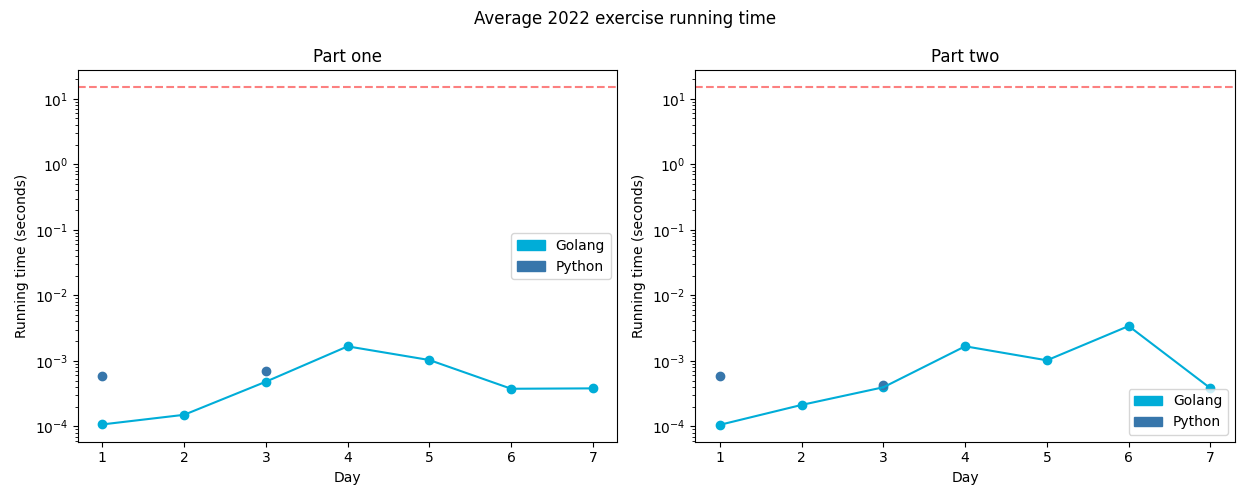
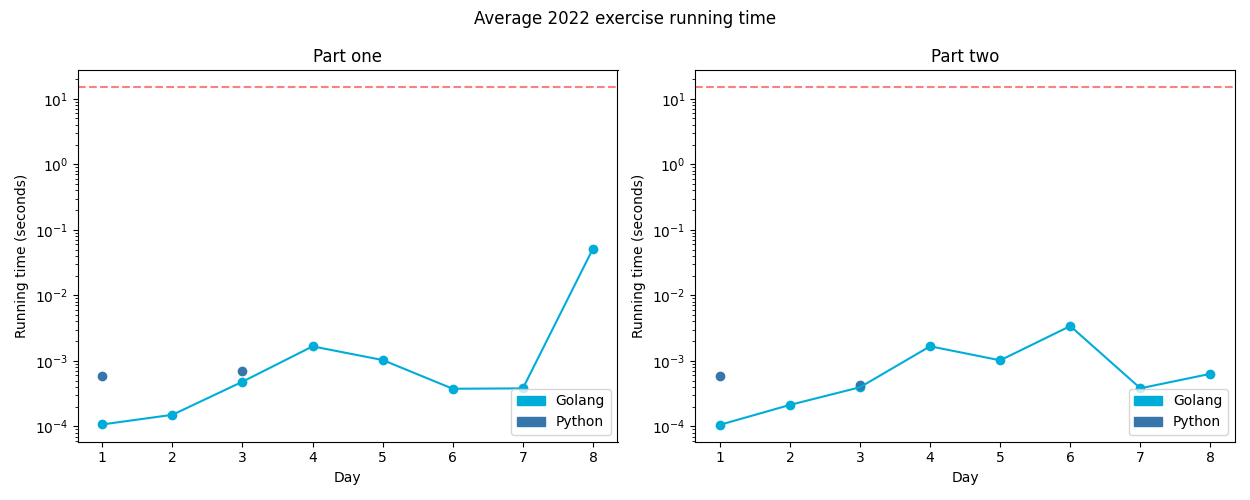
refactor go solution for aoc22-8

diff --git a/exercises/2022/08-treetopTreeHouse/go/exercise.go b/exercises/2022/08-treetopTreeHouse/go/exercise.go
@@ -1,18 +1,24 @@
-// Package aoc22_08 contains the solution for day 8 of Advent of Code 2022.
-package aoc22_08 //nolint:revive,stylecheck // I don't care about the package name
+package exercises
 
 import (
 	"sort"
-	"strconv"
+	"strings"
 
+	"github.com/asphaltbuffet/advent-of-code/internal/common"
 	aoc "github.com/asphaltbuffet/advent-of-code/pkg/utilities"
 )
 
 var dimX, dimY int
 
-// D8P1 returns the solution for 2022 day 8 part 1.
+// Exercise for Advent of Code 2022 day 8.
+type Exercise struct {
+	common.BaseExercise
+}
+
+// One returns the answer to the first part of the exercise.
 // answer: 1805
-func D8P1(data []string) string {
+func (c Exercise) One(instr string) (any, error) {
+	data := strings.Split(instr, "\n")
 	dimX = len(data[0])
 	dimY = len(data)
 
@@ -36,12 +42,13 @@ func D8P1(data []string) string {
 	sort.Ints(out)
 	// fmt.Printf("visible trees: %v\n", out)
 
-	return strconv.Itoa(len(out) - 1) // -1 for the "edge" tree
+	return len(out) - 1, nil
 }
 
-// D8P2 returns the solution for 2022 day 8 part 2.
+// Two returns the answer to the second part of the exercise.
 // answer: 444528
-func D8P2(data []string) string {
+func (c Exercise) Two(instr string) (any, error) {
+	data := strings.Split(instr, "\n")
 	dimX = len(data[0])
 	dimY = len(data)
 
@@ -66,5 +73,5 @@ func D8P2(data []string) string {
 		}
 	}
 
-	return strconv.Itoa(maxScenicScore)
+	return maxScenicScore, nil
 }

diff --git a/exercises/2022/08-treetopTreeHouse/py/__init__.py b/exercises/2022/08-treetopTreeHouse/py/__init__.py
@@ -1,0 +1,12 @@
+from typing import *
+from aocpy import BaseExercise
+
+# Exercise for Advent of Code 2022 day 8
+class Exercise(BaseExercise):
+    @staticmethod
+    def one(instr: str) -> int:
+        raise NotImplementedError
+
+    @staticmethod
+    def two(instr: str) -> int:
+        raise NotImplementedError

diff --git a/exercises/2022/08-treetopTreeHouse/go/score.go b/exercises/2022/08-treetopTreeHouse/go/score.go
@@ -1,4 +1,4 @@
-package aoc22_08 //nolint:revive,stylecheck // I don't care about the package name
+package exercises
 
 // CalculateScoreUp calculates the score for the tree at the given location.
 func CalculateScoreUp(h, r, c int, m [][]int) int {

diff --git a/exercises/2022/08-treetopTreeHouse/go/tree.go b/exercises/2022/08-treetopTreeHouse/go/tree.go
@@ -1,4 +1,4 @@
-package aoc22_08 //nolint:revive,stylecheck // I don't care about the package name
+package exercises
 
 import (
 	"fmt"

diff --git a/exercises/2022/08-treetopTreeHouse/README.md b/exercises/2022/08-treetopTreeHouse/README.md
@@ -1,0 +1,14 @@
+# [Day 8: Treetop Tree House](https://adventofcode.com/2022/day/8)
+
+# Go
+
+```console
+2022-8 Treetop Tree House (Golang)
+
+Running...
+
+Test 1.0: pass in 0.0001 seconds
+Test 2.0: pass in 0.0000 seconds
+Part 1: 1805 in 0.0681 seconds
+Part 2: 444528 in 0.0006 seconds
+```
